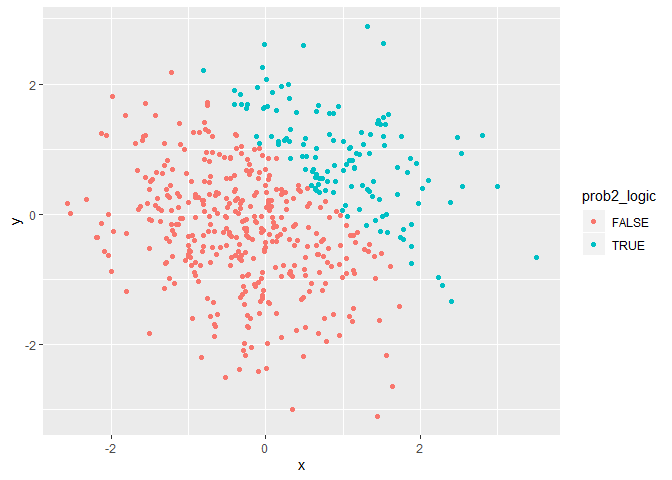
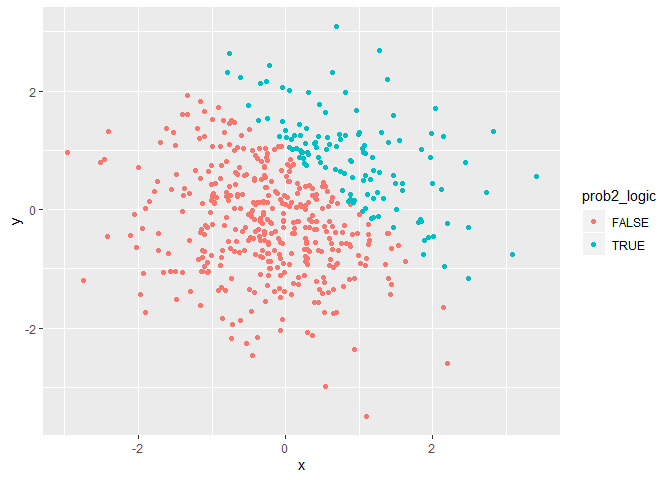
I commented on what I did in question two.

diff --git a/p8105_hw1_ha2546.md b/p8105_hw1_ha2546.md
@@ -23,14 +23,14 @@ sample_mean = mean(pull(prob1_df, vec_sample))
 sample_mean
 ```
 
-    ## [1] -0.6352277
+    ## [1] 0.5589216
 
 ``` r
 logic_mean = mean(pull(prob1_df, vec_logic))
 logic_mean
 ```
 
-    ## [1] 0.375
+    ## [1] 0.875
 
 ``` r
 char_mean = mean(pull(prob1_df, vec_char))
@@ -83,7 +83,7 @@ num_factor = as.numeric(pull(prob1_df, vec_factor))
 num_factor
 ```
 
-    ## [1] 1 0 0 0 1 0 0 1
+    ## [1] 1 1 1 0 1 1 1 1
     ## [1] NA NA NA NA NA NA NA NA
     ## [1] 2 1 3 3 1 1 1 1
 
@@ -112,8 +112,8 @@ num_logic_calc = pull(prob1_df, vec_sample) * num_logic
 num_logic_calc
 ```
 
-    ## [1] 1.0436726 0.0000000 0.0000000 0.0000000 0.1042097 0.0000000 0.0000000
-    ## [8] 0.3572668
+    ## [1] 1.06163441 0.20790222 0.58423352 0.00000000 0.37877846 1.03803974
+    ## [7] 1.31568485 0.02116581
 
 ``` r
 factor_logic = as.factor(pull(prob1_df, vec_logic))
@@ -127,7 +127,7 @@ factor_logic_calc1 = pull(prob1_df, vec_sample) * factor_logic
 factor_logic
 ```
 
-    ## [1] TRUE  FALSE FALSE FALSE TRUE  FALSE FALSE TRUE 
+    ## [1] TRUE  TRUE  TRUE  FALSE TRUE  TRUE  TRUE  TRUE 
     ## Levels: FALSE TRUE
 
 ``` r
@@ -142,14 +142,14 @@ factor_logic_calc2 = pull(prob1_df, vec_sample) * num_factor_logic
 num_factor_logic
 ```
 
-    ## [1] 2 1 1 1 2 1 1 2
+    ## [1] 2 2 2 1 2 2 2 2
 
 ``` r
 factor_logic_calc2
 ```
 
-    ## [1]  2.0873451 -0.8353579 -0.5946725 -2.4255277  0.2084194 -1.3408296
-    ## [7] -1.3905832  0.7145337
+    ## [1]  2.12326881  0.41580445  1.16846704 -0.13606620  0.75755693  2.07607948
+    ## [7]  2.63136971  0.04233161
 
   - **Results**
 
@@ -165,7 +165,8 @@ factor to numeric.
 ## 2.1
 
 First, I am going to creat a data frame, define varian=bles x and y, and
-play with it a little bit…
+a logical vector. Then I transformed the logical vector to numeric and
+factor.
 
 ``` r
 prob2_df = tibble(
@@ -179,13 +180,13 @@ factor_logic2 = as.factor(pull(prob2_df, prob2_logic))
 ```
 
 The size of my dataset is 500, 3; which means it has 500 rows and
-3columns. The mean of x is 0.0114479, its median is -0.048541, and its
-standard deviation is 1.0145996. The proportion of cases for which x + y
-\> 1 is 0.0866667
+3columns. The mean of x is -0.0250383, its median is -0.0920069, and its
+standard deviation is 1.0409275. The proportion of cases for which x + y
+\> 1 is 0.0773333
 
 ## 2.2
 
-In this part, I have made three scatter pointss and colored the dots
+In this part, I have made three scatter plots and colored the points
 using 1- logical variable, 2- numeric variable, and 3- factor
 variable.
 
@@ -194,19 +195,21 @@ logic_scatterplot = ggplot(prob2_df, aes(x = x, y = y, color = prob2_logic)) + g
 logic_scatterplot
 ```
 
-![](p8105_hw1_ha2546_files/figure-gfm/unnamed-chunk-2-1.png)<!-- -->
+![](p8105_hw1_ha2546_files/figure-gfm/scatter_plots-1.png)<!-- -->
 
 ``` r
-ggplot(prob2_df, aes(x = x, y = y, color = num_logic2)) + geom_point()
+num_logic_scatterplot = ggplot(prob2_df, aes(x = x, y = y, color = num_logic2)) + geom_point()
+num_logic_scatterplot
 ```
 
-![](p8105_hw1_ha2546_files/figure-gfm/unnamed-chunk-2-2.png)<!-- -->
+![](p8105_hw1_ha2546_files/figure-gfm/scatter_plots-2.png)<!-- -->
 
 ``` r
-ggplot(prob2_df, aes(x = x, y = y, color = factor_logic2)) + geom_point()
+factor_logic_scatterplot = ggplot(prob2_df, aes(x = x, y = y, color = factor_logic2)) + geom_point()
+factor_logic_scatterplot
 ```
 
-![](p8105_hw1_ha2546_files/figure-gfm/unnamed-chunk-2-3.png)<!-- -->
+![](p8105_hw1_ha2546_files/figure-gfm/scatter_plots-3.png)<!-- -->
 
 ``` r
 ggsave("logic_scatterplot2.pdf")
